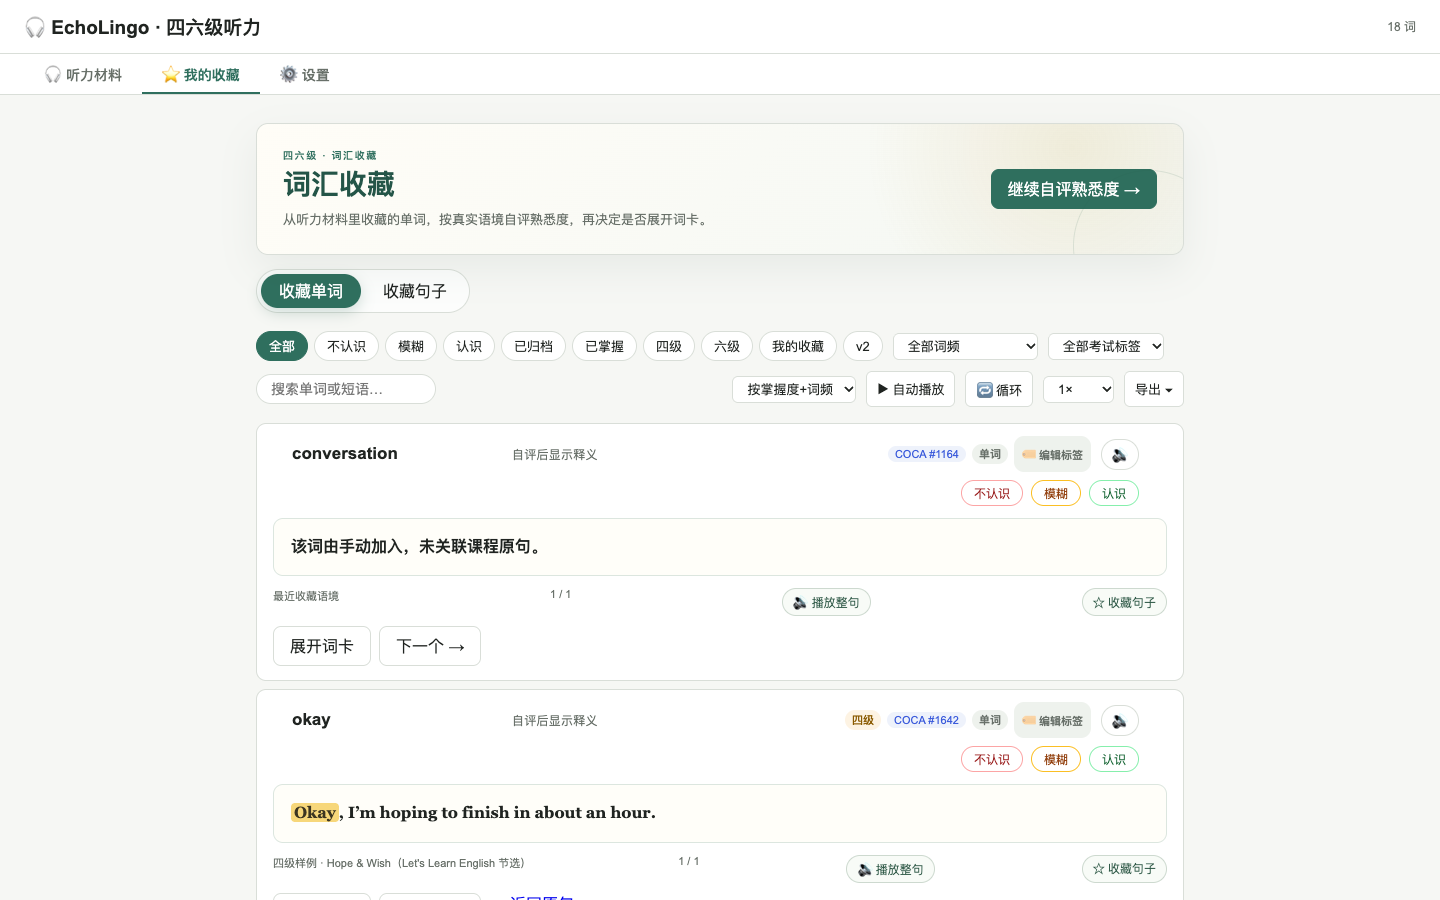
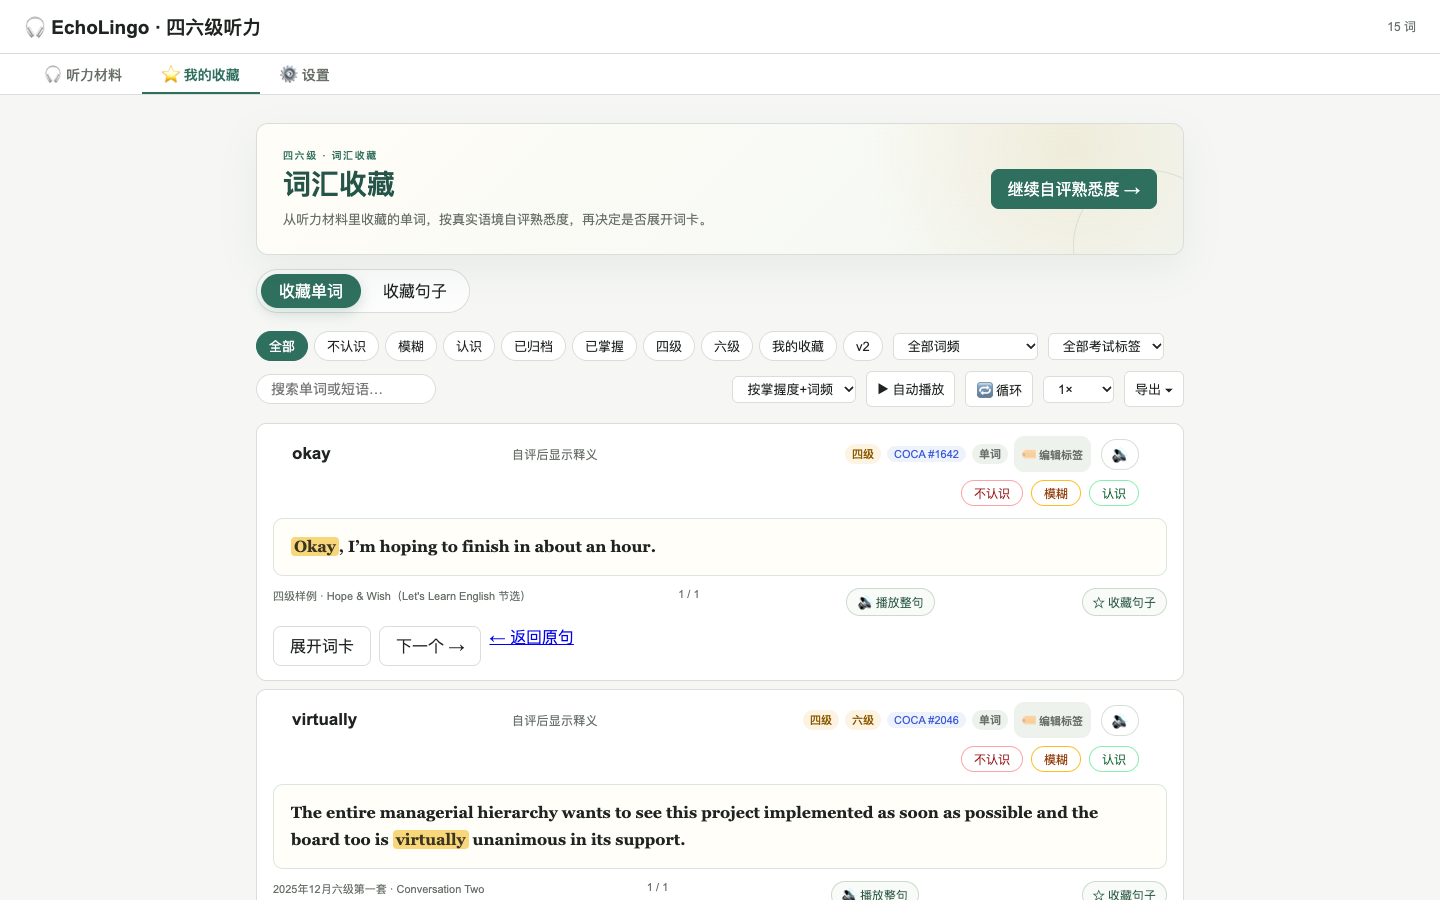
docs(cet-base): 总验收报告补浏览器验收 54 passed/1 skipped 与复跑稳定性

diff --git a/docs/cet-base/返修2/总验收报告.md b/docs/cet-base/返修2/总验收报告.md
@@ -19,6 +19,8 @@
 | passed 变化 | **+135** |
[1 lines of base64/hex data omitted]
 | 队友四文件 | 相对 `6f07433` **零改动** |
+| 浏览器验收（最终 SHA） | **54 passed / 1 skipped**（`test_cet_base_workspace.py` + 包1/包3/包4 浏览器测试，端口 5190 全新隔离库） |
+| 复跑稳定性 | 最终 SHA 上全量回归复跑 2 次，数字完全一致（`2 failed / 904 passed / 62 skipped`） |
 | 5173 演示实例 | PID 55798 **全程存活未重启**；本轮施工期间**零写请求** |
 | `cet-base-delivery` | **未动**（仍为 `6f07433`）；**未推送** |
 
